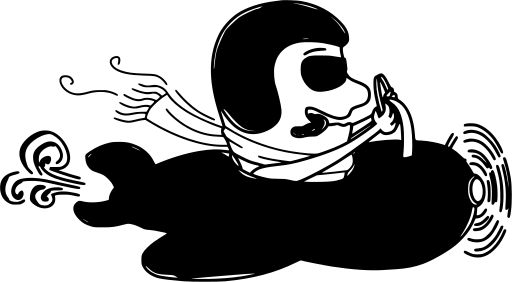
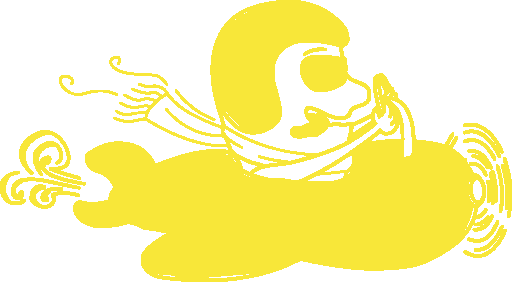
ok responive, reste marge droite menu, crouse avion et responsive composants

diff --git a/Home/home.css b/Home/home.css
@@ -17,7 +17,7 @@ html {
   width: 15px;
   border-radius: 50%;
   cursor: none;
-  border: solid 2px white;
+  border: solid 2px #7c7a97;
   position: absolute;
   background-color: transparent;
   pointer-events: none;
@@ -62,7 +62,7 @@ html {
 .main {
   display: grid;
   grid-template-columns: 65% 35%;
-  grid-template-rows: 40% 50% 15%;
+  grid-template-rows: 50% 50%;
   height: 100vh;
   position: relative;
 }
@@ -80,10 +80,14 @@ html {
   grid-column-end: 2;
 }
 .avion {
-  /* height: 300px;
-  width: 300px; */
+  height: 40px;
+  width: 60px;
   color: yellow;
   margin-top: 30px;
+   grid-row-start: 1;
+  grid-row-end: 2;
+  grid-column-start: 1;
+  grid-column-end: 2;
 
 }
 .header_titles {
@@ -110,22 +114,6 @@ html {
   font-family: lato;
   font-weight: 300;
 }
-/* .header_name span {
-  transition: color 0.2s;
-}
-.header_name span:hover {
-  color: #a35f00;
-  font-size: 16;
-}
-.header_name span:nth-child(1) {
-  text-transform: uppercase;
-}
-.header_name span:nth-child(8) {
-  text-transform: uppercase;
-}
-.header_name span:nth-child(7) {
-  margin-right: 20px;
-} */
 
 .container_developper {
   display: flex;
@@ -134,7 +122,7 @@ html {
 }
 .developper {
   font-family: poppins;
-  color: #d6d3cf;
+  color: #7e7f9f;
   font-weight: 100;
   transition: 0.2s ease-in-out;
   font-size: clamp(14px, 1vw, 20px);
@@ -212,13 +200,13 @@ html {
   font-family: lato;
   font-weight: 400;
   font-size: clamp(14px, 1vw, 25px);
-  transition: 0.4s ease-in-out;
+  transition: 0.3s ease-in-out;
   text-transform: uppercase;
   transform: scale(1) translateX(0px);
   padding: 10px;
   border-radius: 5px;
   text-align: center;
-  background: linear-gradient(to right, transparent, 20%, #373737);
+  background: linear-gradient(to right, transparent, 40%, #373737);
 }
 .nav_a:hover {
   color: rgb(251, 251, 251);
@@ -226,7 +214,7 @@ html {
   font-family: lato;
   font-weight: 900;
   transform: scale(1.1) translateX(2px);
-  background: linear-gradient(to right, transparent, 40%, #a35f00, transparent);
+  background: linear-gradient(to right, transparent, 40%, #1e1e38, transparent);
 }
 .container_navButtons {
   display: flex;
@@ -263,7 +251,7 @@ html {
 .wrapper_h2_logos {
   display: flex;
   flex-direction: column;
-  justify-content: space-around;
+  justify-content: space-between;
   align-items: flex-start;
 }
 
@@ -280,13 +268,9 @@ html {
   background-image: linear-gradient(to top, #05024d, 20%, rgb(188, 186, 186));
   color: transparent;
 }
-/* .contact_logos {
-  display: flex;
-  justify-content: space-around;
-  width: 70%;
-} */
+
 .contact_logo {
-  color: #474753;
+  color: #6a6a7b;
   transition: 0.1s ease-in-out;
   text-shadow: none;
   transform: scale(1);
@@ -294,8 +278,8 @@ html {
   font-size: clamp(10px, 3vw, 20px);
 }
 .contact_logo:hover {
-  color: rgb(144, 0, 255);
-  text-shadow: 0px 0px 1px white;
+   color: #6a6a7b;
+  /* text-shadow: 0px 0px 1px white; */
   transform: scale(1.2);
 }
 
@@ -331,84 +315,9 @@ html {
 
 /* MEDIAQUERIES.................................................................. */
 
-/* @media screen and (max-width: 3048px) {
-  .main {
-    display: grid;
-    grid-template-columns: 70% 30%;
-    grid-template-rows: 35% 50% 15%;
-    height: 100%;
-  }
-  .header_title {
-    font-size: 150px;
-    letter-spacing: -17px;
-  }
-  .header_name {
-    font-size: 60px;
-  }
-  .developper {
-    margin-top: 20px;
-    font-size: 36px;
-    font-family: lato;
-    margin-bottom: 20px;
-    font-weight: 300;
-  }
-  .contact {
-    margin-left: 10px;
-    margin-top: -10px;
-  }
-  .contact_logo {
-    font-size: 60px;
-    margin-top: 60px;
-    margin-bottom: 30px;
-  
-  }
-  .about_h2 {
-    font-size: 100px;
-    letter-spacing: 2px;
-  }
-  .about_h3 {
-    font-size: 40px;
-    line-height: 70px;
-  }
-  .nav_a {
-    font-size: 80px;
-    opacity: 0.7;
-  }
-  .nav_a:hover {
-    opacity: 1;
-  }
-  .footer {
-    display: flex;
-    align-items: center;
-    align-content: center;
-    justify-content: flex-end;
-  }
-  .technos {
-    margin-left: 70px;
-    display: flex;
-    margin-top: 20px;
-    width: 30%;
-    align-items: center;
-    align-content: center;
-    height: 4%;
-  }
-  .logos:nth-child(1) {
-    height: 190%;
-  }
-  .logos:nth-child(2) {
-    height: 180%;
-  }
-  .logos:nth-child(3) {
-    height: 280%;
-    margin-top: -5px;
-  }
-  .logos:nth-child(4) {
-    height: 200%;
-  }
-  .logos:nth-child(5) {
-    height: 230%;
-  }
-  .logos:nth-child(6) {
-    height: 220%;
-  }
-} */
+/* @media screen and (max-width: 695px) {
+ .wrapper_nav {
+  margin-right: -10px;
+}
+}
+  */

diff --git a/Home/home.js b/Home/home.js
@@ -171,14 +171,30 @@ aboutH3.addEventListener("scroll", () => {
 //    }, interval);
 //   }
 
+const tm = gsap.timeline();
 let avion = document.getElementsByClassName("avion");
 console.log(avion);
- gsap.to(".avion", {
-   duration: 30,
-   x: 700, 
+
+tm.to(".avion", {
+  duration: 67,
+  x: 820,
+  overlap: 10,
+  ease: Sine,
   repeat: -1,
- });
-
-
- let svgElement = document.querySelector("svg path");
- svgElement.setAttribute("fill", "red");
+});
+// .to(".avion", {
+//   duration: 4,
+//   x: 100,
+//   y: -15,
+//   overlap: -4,
+// })
+// .to(".avion", {
+//   duration: 4,
+//   x: 130,
+//   y: 15,
+// })
+// .to(".avion", {
+//   duration: 4,
+//   x: 180,
+//   y: -4,
+// });

diff --git a/Home/home.html b/Home/home.html
@@ -27,7 +27,7 @@
       <!-- HEADER....................................... -->
 
       <header class="header">
-      <i class="fa-solid fa-plane fa-2xl avion"></i>
+     <img src="../assets/1598084.png" alt="" class="avion">
         <div class="header_titles">
           <h1 class="header_title">
            FABIEN MARCEAU

diff --git a/Animation/Animation.js b/Animation/Animation.js
@@ -232,7 +232,6 @@ let plane = tmPlane
       duration: 3,
     })
   )
-
   .add(
     gsap.to(".plane", {
       x: 800,
